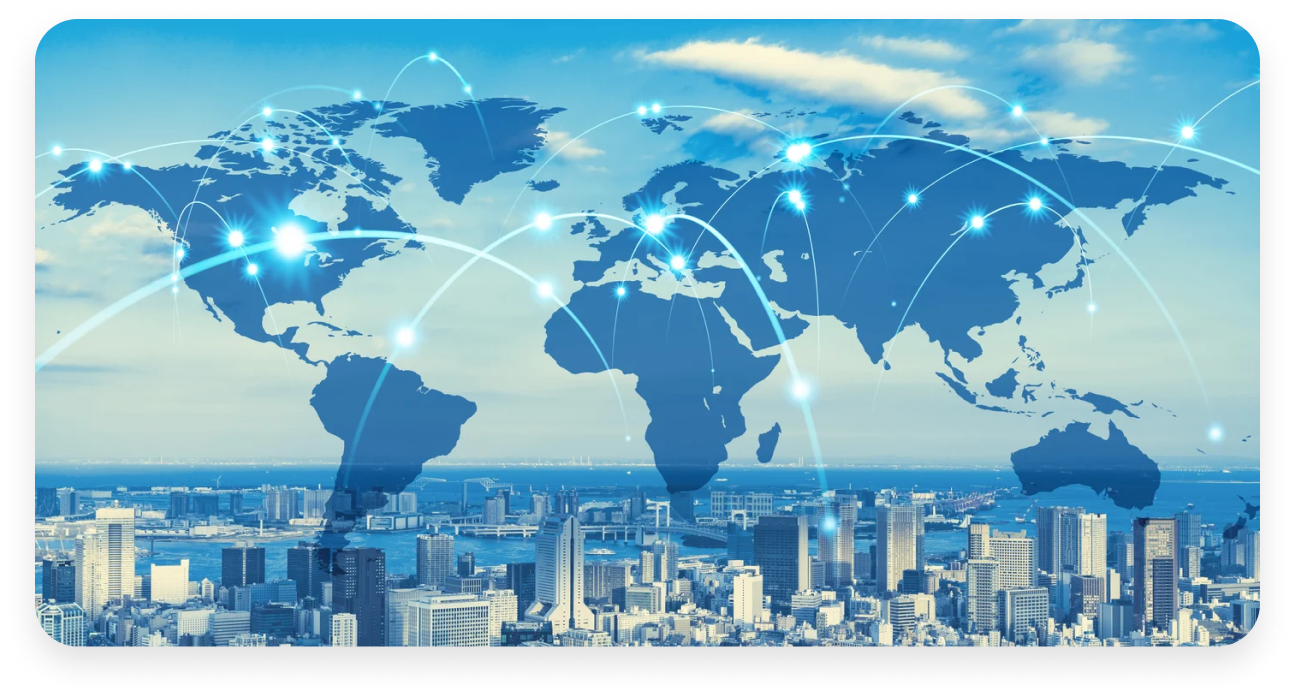
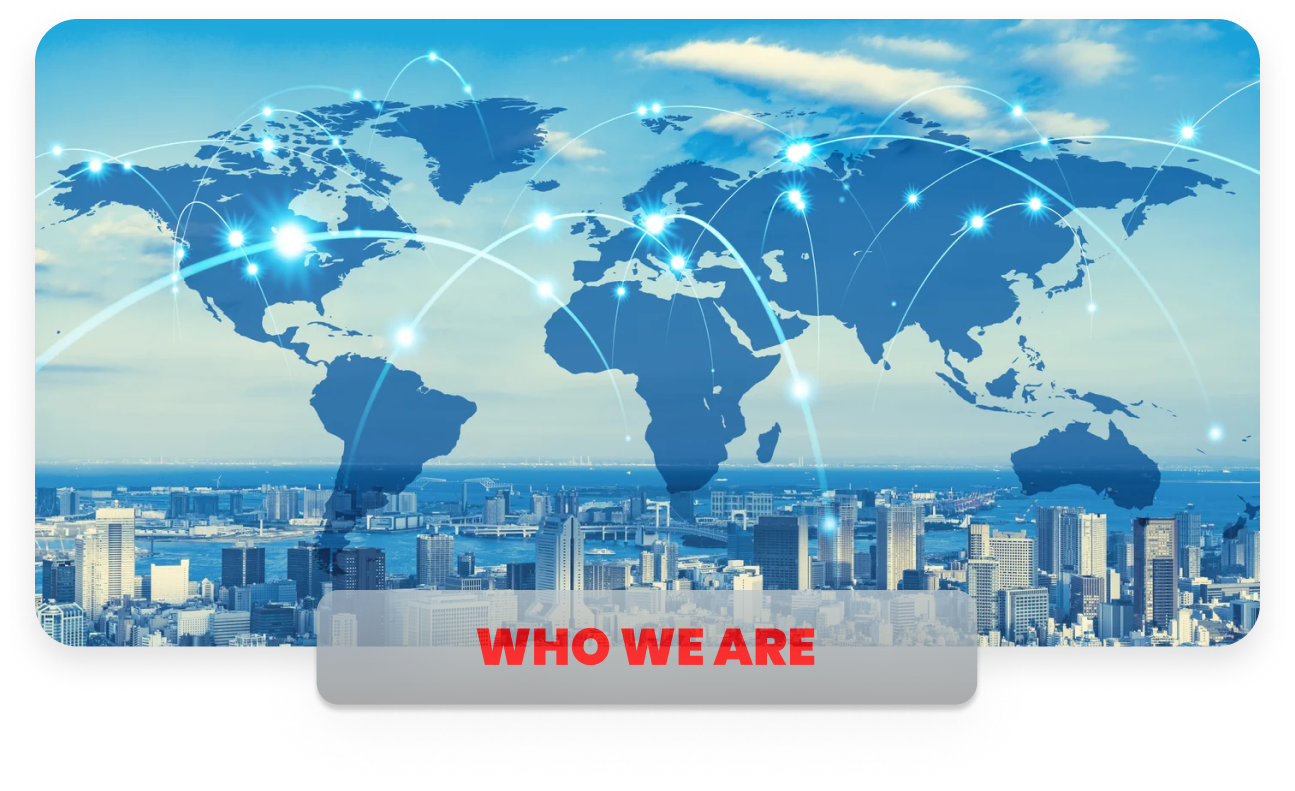
Hero image updated

diff --git a/index.html b/index.html
@@ -23,15 +23,6 @@
 <section class="text-gray-600 body-font">
   <div class="container mx-auto flex px-5 py-24 items-center justify-center flex-col">
     <img class="heroImg lg:w-2/6 md:w-3/6 w-5/6 mb-10 object-cover object-center rounded" alt="hero" src="./Images/hero section.png" >
-    <div class="text-center lg:w-2/3 w-full">
-      <h1 class="title-font sm:text-4xl text-3xl mb-4 font-medium text-gray-900">Microdosing synth tattooed vexillologist</h1>
-      <p class="mb-8 leading-relaxed">Meggings kinfolk echo park stumptown DIY, kale chips beard jianbing tousled. Chambray dreamcatcher trust fund, kitsch vice godard disrupt ramps hexagon mustache umami snackwave tilde chillwave ugh. Pour-over meditation PBR&amp;B pickled ennui celiac mlkshk freegan photo booth af fingerstache pitchfork.</p>
-      <div class="flex justify-center">
-        <button class="inline-flex text-white bg-indigo-500 border-0 py-2 px-6 focus:outline-none hover:bg-indigo-600 rounded text-lg">Button</button>
-        <button class="ml-4 inline-flex text-gray-700 bg-gray-100 border-0 py-2 px-6 focus:outline-none hover:bg-gray-200 rounded text-lg">Button</button>
-      </div>
-    </div>
-  </div>
 </section>
 </body>
 </html>

diff --git a/style.css b/style.css
@@ -5,3 +5,19 @@
     width: 1225px;
     filter: drop-shadow(0px 15.4088px 34.2418px rgba(122, 122, 122, 0.23));
 }
+
+.who-we-are{
+    padding: 18.833px 50.4884px;
+
+background: rgba(255, 255, 255, 0.5);
+opacity: 0.8;
+box-shadow: 0px 5.60982px 5.60982px rgba(0, 0, 0, 0.25), 0px 22.4393px 63.1105px rgba(0, 0, 0, 0.06);
+backdrop-filter: blur(91.1597px);
+/* Note: backdrop-filter has minimal browser support */
+font-family: 'Poppins';
+font-style: normal;
+font-weight: 900;
+/* font-size: 51.3627px; */
+color: #FE0000;
+border-radius: 22.2572px;
+}
